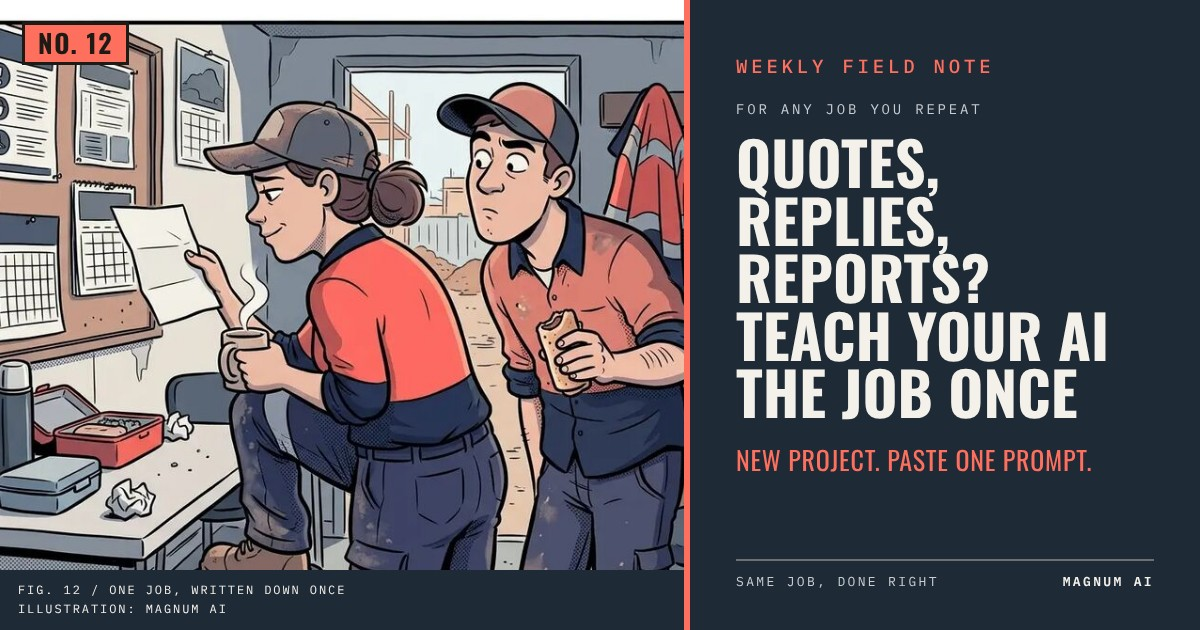
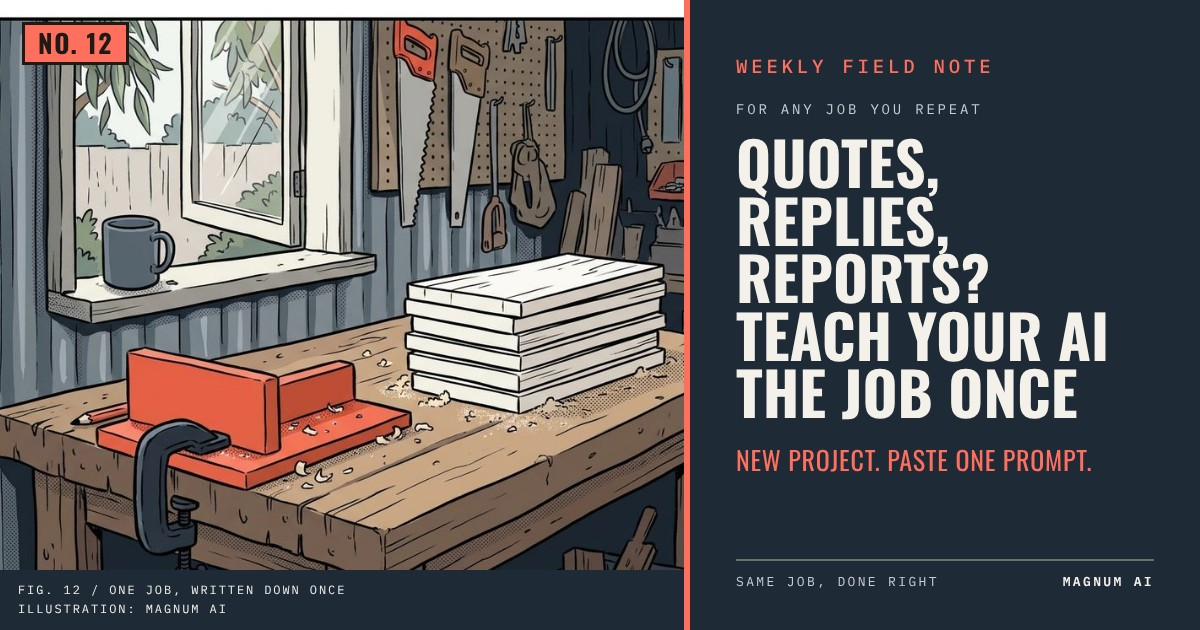
Field Note 12: card picture, a jig made once on a shed workbench
Claude-Session: https://claude.ai/code/session_01F8XX6o5R5CWfwEwwc3uDpR

diff --git a/newsletter/field-note-12-projects.html b/newsletter/field-note-12-projects.html
@@ -18,14 +18,14 @@
 <meta property="og:title" content="Weekly Field Note No. 12 · Quotes, replies, reports? Teach your AI the job once">
 <meta property="og:description" content="A prompt that sets up AI for any job you repeat, so you stop explaining it every time.">
 <meta property="og:url" content="https://webes77.github.io/magnum-guides/newsletter/field-note-12-projects.html">
-<meta property="og:image" content="https://webes77.github.io/magnum-guides/assets/thumbnails/field-note-12-projects.jpg">
+<meta property="og:image" content="https://webes77.github.io/magnum-guides/assets/thumbnails/field-note-12-projects.jpg?v=2">
 <meta property="og:image:width" content="1200">
 <meta property="og:image:height" content="630">
 <meta property="og:image:alt" content="Weekly Field Note No. 12 · Quotes, replies, reports? Teach your AI the job once, published by Magnum AI">
 <meta name="twitter:card" content="summary_large_image">
 <meta name="twitter:title" content="Weekly Field Note No. 12 · Quotes, replies, reports? Teach your AI the job once">
 <meta name="twitter:description" content="A prompt that sets up AI for any job you repeat, so you stop explaining it every time.">
-<meta name="twitter:image" content="https://webes77.github.io/magnum-guides/assets/thumbnails/field-note-12-projects.jpg">
+<meta name="twitter:image" content="https://webes77.github.io/magnum-guides/assets/thumbnails/field-note-12-projects.jpg?v=2">
 <meta name="theme-color" content="#1F2A37">
 <meta name="color-scheme" content="light">
 <link rel="preconnect" href="https://fonts.googleapis.com">

diff --git a/newsletter/field-note-12-thumbnail.html b/newsletter/field-note-12-thumbnail.html
@@ -52,7 +52,7 @@ h1{font-family:'Oswald','Arial Narrow','Liberation Sans Narrow',sans-serif;font-
 <div class="card">
 
   <div class="pic">
-    <img class="ill" src="../assets/illustrations/newsletter.jpg" alt="">
+    <img class="ill" src="../assets/illustrations/field-note-12.jpg" alt="">
     <div class="numtag">No. 12</div>
     <div class="cap">Fig. 12 / One job, written down once<br>Illustration: Magnum AI</div>
   </div>
